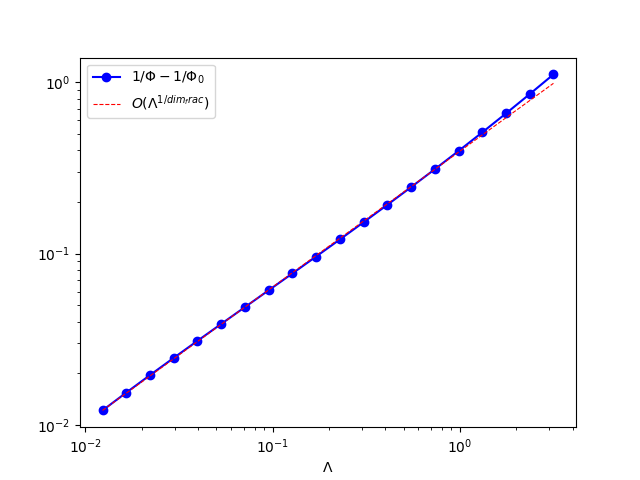
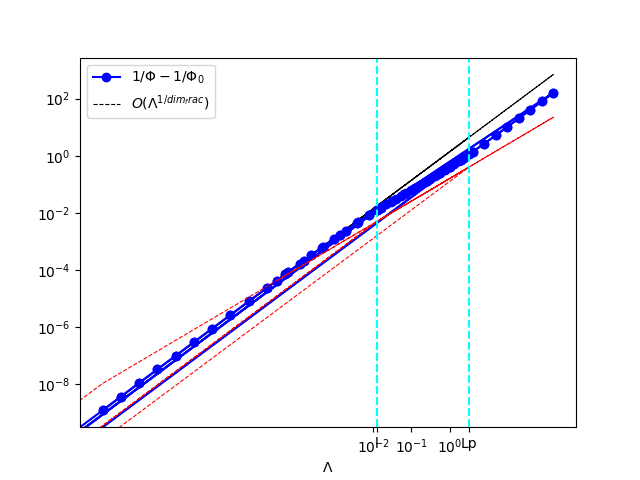
update

diff --git a/Ex1_square_top_snowflake_adaptive/read_csv.py b/Ex1_square_top_snowflake_adaptive/read_csv.py
@@ -1,16 +1,90 @@
+from firedrake.petsc import PETSc
 import csv
-
+import matplotlib.pyplot as plt
 from collections import defaultdict
-
+import numpy as np
 columns = defaultdict(list) # each value in each column is appended to a list
 nn=4
+l=(1/3)**nn
+Lp=(4/3)**nn
+dim_frac=np.log(4)/np.log(3)
+
 with open(f'results/Phi_Lam_{nn}.csv') as f:
     reader = csv.DictReader(f) # read rows into a dictionary format
     for row in reader: # read a row as {column1: value1, column2: value2,...}
         for (k,v) in row.items(): # go over each column name and value 
-            columns[k].append(v) # append the value into the appropriate list
+            columns[k].append(np.float128(v)) # append the value into the appropriate list
 
-print('lambda')
-print(columns['Lambda'])
-print('flux')
-print(columns['flux'])
+LL=np.array(columns['Lambda'])
+Phi=np.array(columns['flux'])
+Phi0=Phi[0]
+
+# R1: 0<Lambda <l
+with open(f'results/Phi_Lam_{nn}_R1.csv') as f:
+    reader = csv.DictReader(f) # read rows into a dictionary format
+    for row in reader: # read a row as {column1: value1, column2: value2,...}
+        for (k,v) in row.items(): # go over each column name and value 
+            columns[k].append(np.float128(v)) # append the value into the appropriate list
+LL=np.array(columns['Lambda'])
+Phi=np.array(columns['flux'])
+Phi=Phi[1:]
+LL=LL[1:]
+phi_2=[]
+for i in range(len(Phi)):
+   phi_2.append(1/Phi[i]-1/Phi0)
+alpha=1
+plt.loglog(LL, phi_2,marker='o',color='blue')
+plt.loglog(LL,(LL)**alpha/(LL[-1]**alpha)*(phi_2[-1]),color='black',linestyle='dashed',linewidth=0.8)
+plt.axvline(x=l,color='cyan',linestyle='dashed')
+plt.xticks([10**(-9),10**(-8),10**(-7),10**(-6),10**(-5),10**(-4),10**(-3),l],['$10^{-9}$','$10^{-8}$','$10^{-7}$','$10^{-6}$','$10^{-5}$','$10^{-4}$','$10^{-3}$','l'])
+plt.legend(['$1/\Phi-1/\Phi_0$', '$O(\Lambda^{1})$'])
+plt.xlabel('$\Lambda$')
+plt.savefig(f"figures/Phi_Lam_{nn}_R1.png")
+PETSc.Sys.Print(f"plot for 0<Lambda<l saved to figures/Phi_Lam_{nn}_R1.png ")
+
+# R2: l<Lambda <Lp
+with open(f'results/Phi_Lam_{nn}_R2.csv') as f:
+    reader = csv.DictReader(f) # read rows into a dictionary format
+    for row in reader: # read a row as {column1: value1, column2: value2,...}
+        for (k,v) in row.items(): # go over each column name and value 
+            columns[k].append(np.float128(v)) # append the value into the appropriate list
+LL=np.array(columns['Lambda'])
+Phi=np.array(columns['flux'])
+Phi=Phi[1:]
+LL=LL[1:]
+phi_2=[]
+for i in range(len(Phi)):
+   phi_2.append(1/Phi[i]-1/Phi0)
+alpha=1/dim_frac
+plt.loglog(LL, phi_2,marker='o',color='blue')
+plt.loglog(LL,(LL)**alpha/(LL[0]**alpha)*(phi_2[0]),color='red',linestyle='dashed',linewidth=0.8)
+plt.axvline(x=l,color='cyan',linestyle='dashed')
+plt.axvline(x=Lp,color='cyan',linestyle='dashed')
+plt.xticks([10**(-2),10**(-1),1,l, Lp], ['$10^{-2}$','$10^{-1}$','$10^{0}$','l','Lp'])
+plt.legend(['$1/\Phi-1/\Phi_0$', '$O(\Lambda^{1/dim_frac})$'])
+plt.xlabel('$\Lambda$')
+plt.savefig(f"figures/Phi_Lam_{nn}_R2.png")
+PETSc.Sys.Print(f"Plot for l<Lambda<L_p saved to figures/Phi_Lam_{nn}_R2.png ")
+
+# R3:Lp<Lambda
+with open(f'results/Phi_Lam_{nn}_R3.csv') as f:
+    reader = csv.DictReader(f) # read rows into a dictionary format
+    for row in reader: # read a row as {column1: value1, column2: value2,...}
+        for (k,v) in row.items(): # go over each column name and value 
+            columns[k].append(np.float128(v)) # append the value into the appropriate list
+LL=np.array(columns['Lambda'])
+Phi=np.array(columns['flux'])
+Phi=Phi[1:]
+LL=LL[1:]
+phi_2=[]
+for i in range(len(Phi)):
+   phi_2.append(1/Phi[i]-1/Phi0)
+alpha=1
+plt.loglog(LL, phi_2,marker='o',color='blue')
+plt.loglog(LL,(LL)**alpha/(LL[0]**alpha)*(phi_2[0]),color='black',linestyle='dashed',linewidth=0.8)
+plt.axvline(x=Lp,color='cyan',linestyle='dashed')
+plt.xticks([10**(1),10**(2),10**(3),10**(4),10**(5), Lp], ['$10^{1}$','$10^{2}$','$10^{3}$','$10^{4}$','$10^{5}$','Lp'])
+plt.legend(['$1/\Phi-1/\Phi_0$', '$O(\Lambda^{1})$'])
+plt.xlabel('$\Lambda$')
+plt.savefig(f"figures/Phi_Lam_{nn}_R3.png")
+PETSc.Sys.Print(f"Plot for Lp<Lambda<infty saved to figures/Phi_Lam_{nn}_R3.png ")
